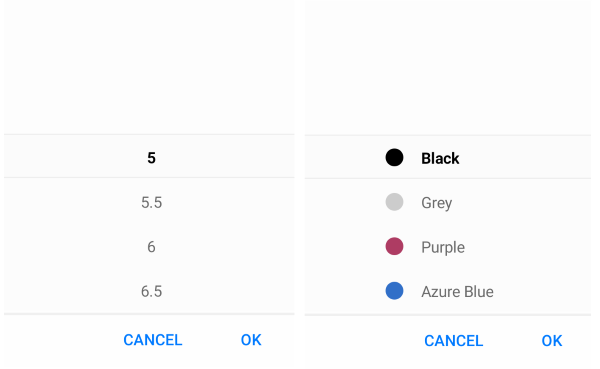
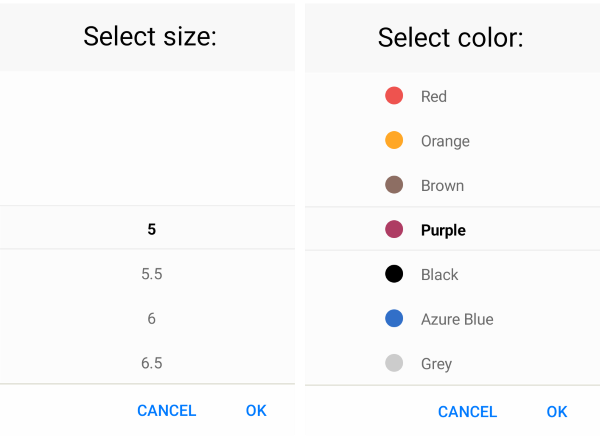
added picker structure

diff --git a/controls/datetimepicker/datetime-picker-visual-structure.md b/controls/datetimepicker/datetime-picker-visual-structure.md
@@ -1,0 +1,29 @@
+---
+title: Visual Structure
+page_title: Date Time Picker Visual Structure
+position: 0
+slug: chart-visual-structure
+---
+
+# Visual Structure
+
+Here are described all visual elements used in the Date and Time Picker for Xamarin.
+
+## Picker Structure before and after a date/time is selected
+
+![DateTime Picker Visual Structure](images/datetime_picker_placeholder_display.png.png "Visual elements of RadChart control")
+
+## Picker Popup Visual Structure
+
+![DateTime Picker Popup Visual Structure](images/datetime_picker_structure.png.png "Visual elements of DateTime Picker Popup")
+
+## Legend ##
+
+- **Placeholder** 
+- **DisplayStringFormat** 
+- **HeaderLabelText**
+- **SelectedDate**
+- **SpinnerHeader** 
+- **Spinner**
+- **SelectionHighlight** 
+- **Footer**

diff --git a/controls/listpicker/list-picker-visual-structure.md b/controls/listpicker/list-picker-visual-structure.md
@@ -1,0 +1,28 @@
+---
+title: Visual Structure
+page_title: List Picker Visual Structure
+position: 0
+slug: chart-visual-structure
+---
+
+# Visual Structure
+
+Here are described all visual elements used in the List Picker for Xamarin.
+
+## List Picker Structure before and after an item is selected
+
+![List Picker Visual Structure](images/listpicker_structure_placeholder_display.png "Visual elements of List Picker control")
+
+## List Picker Popup Visual Structure
+
+![Chart Visual Structure](images/listpicker_structure.png "Visual elements of List Picker Popup")
+
+
+## Legend
+
+- **Placeholder** 
+- **DisplayStringFormat** 
+- **HeaderLabelText**
+- **Item**
+- **SelectedItem**
+- **Footer**
